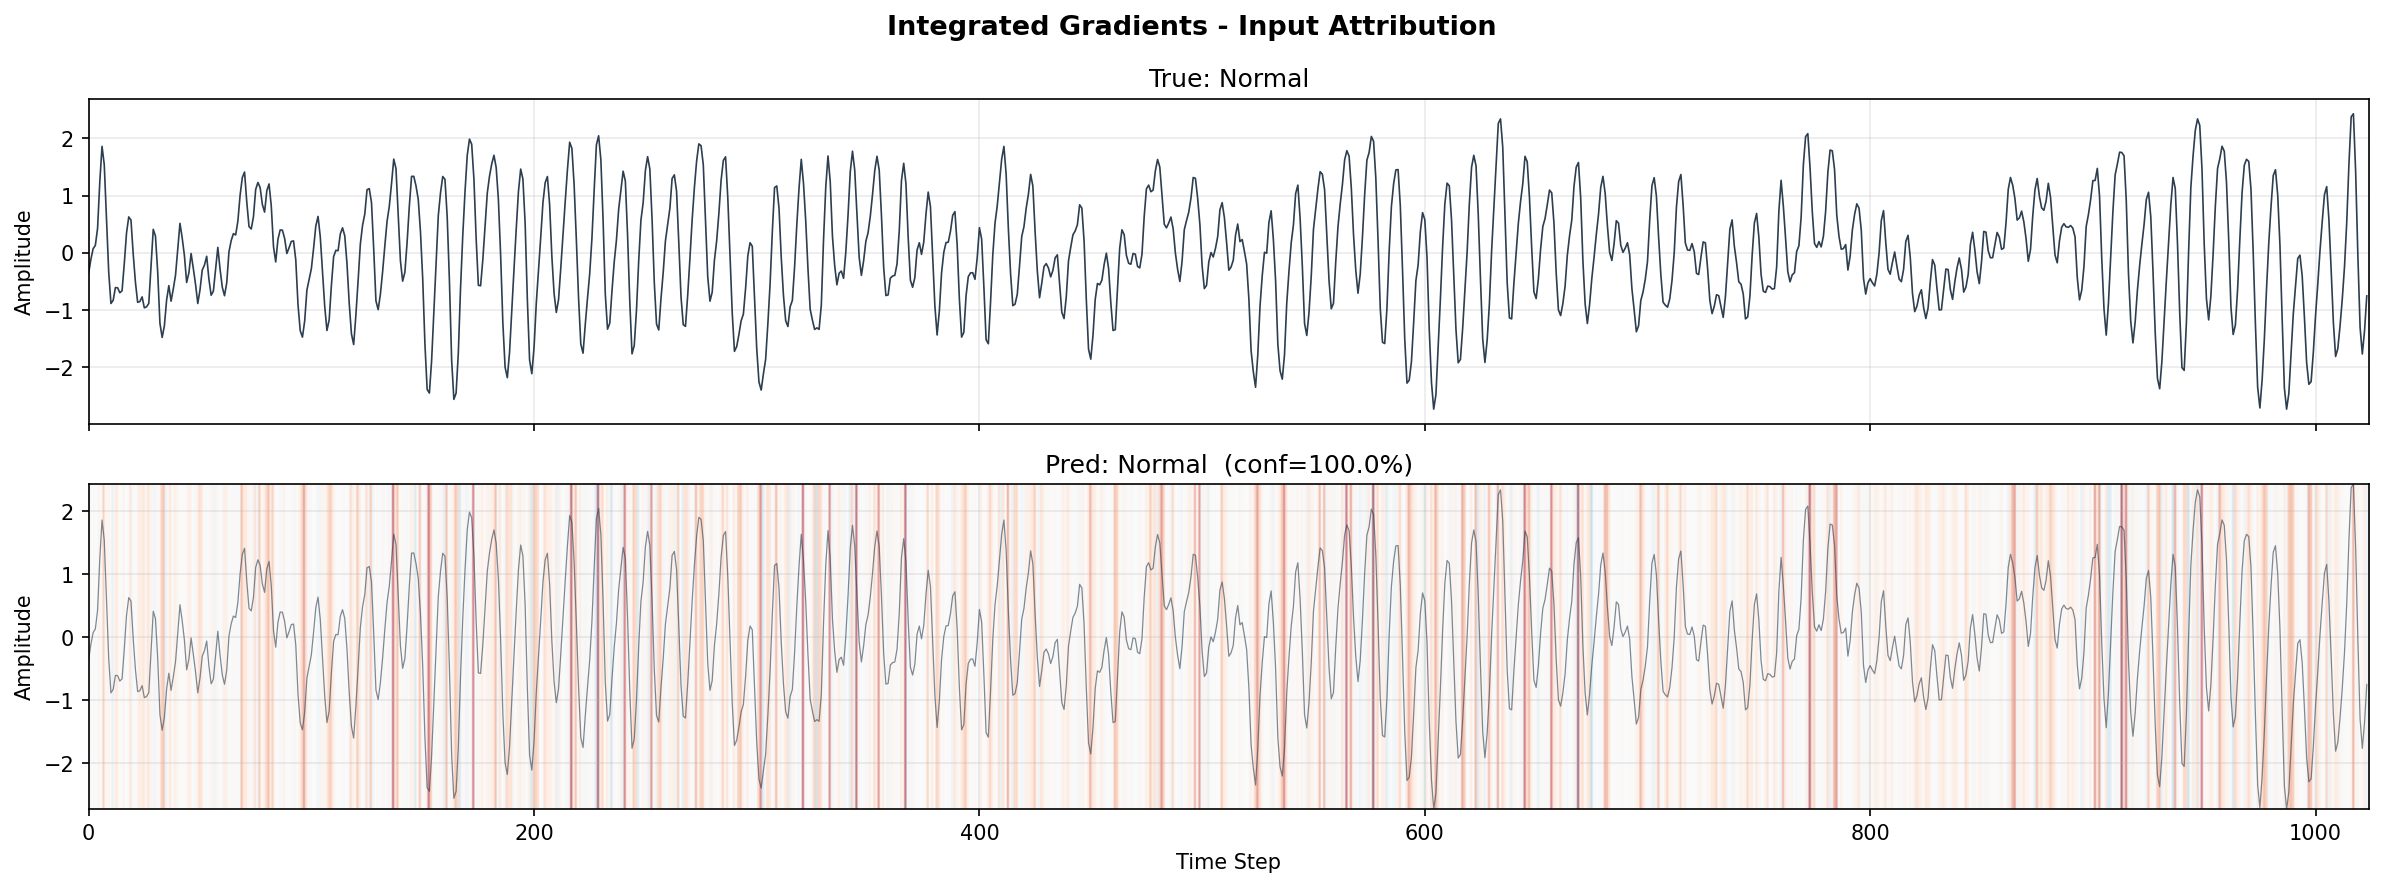
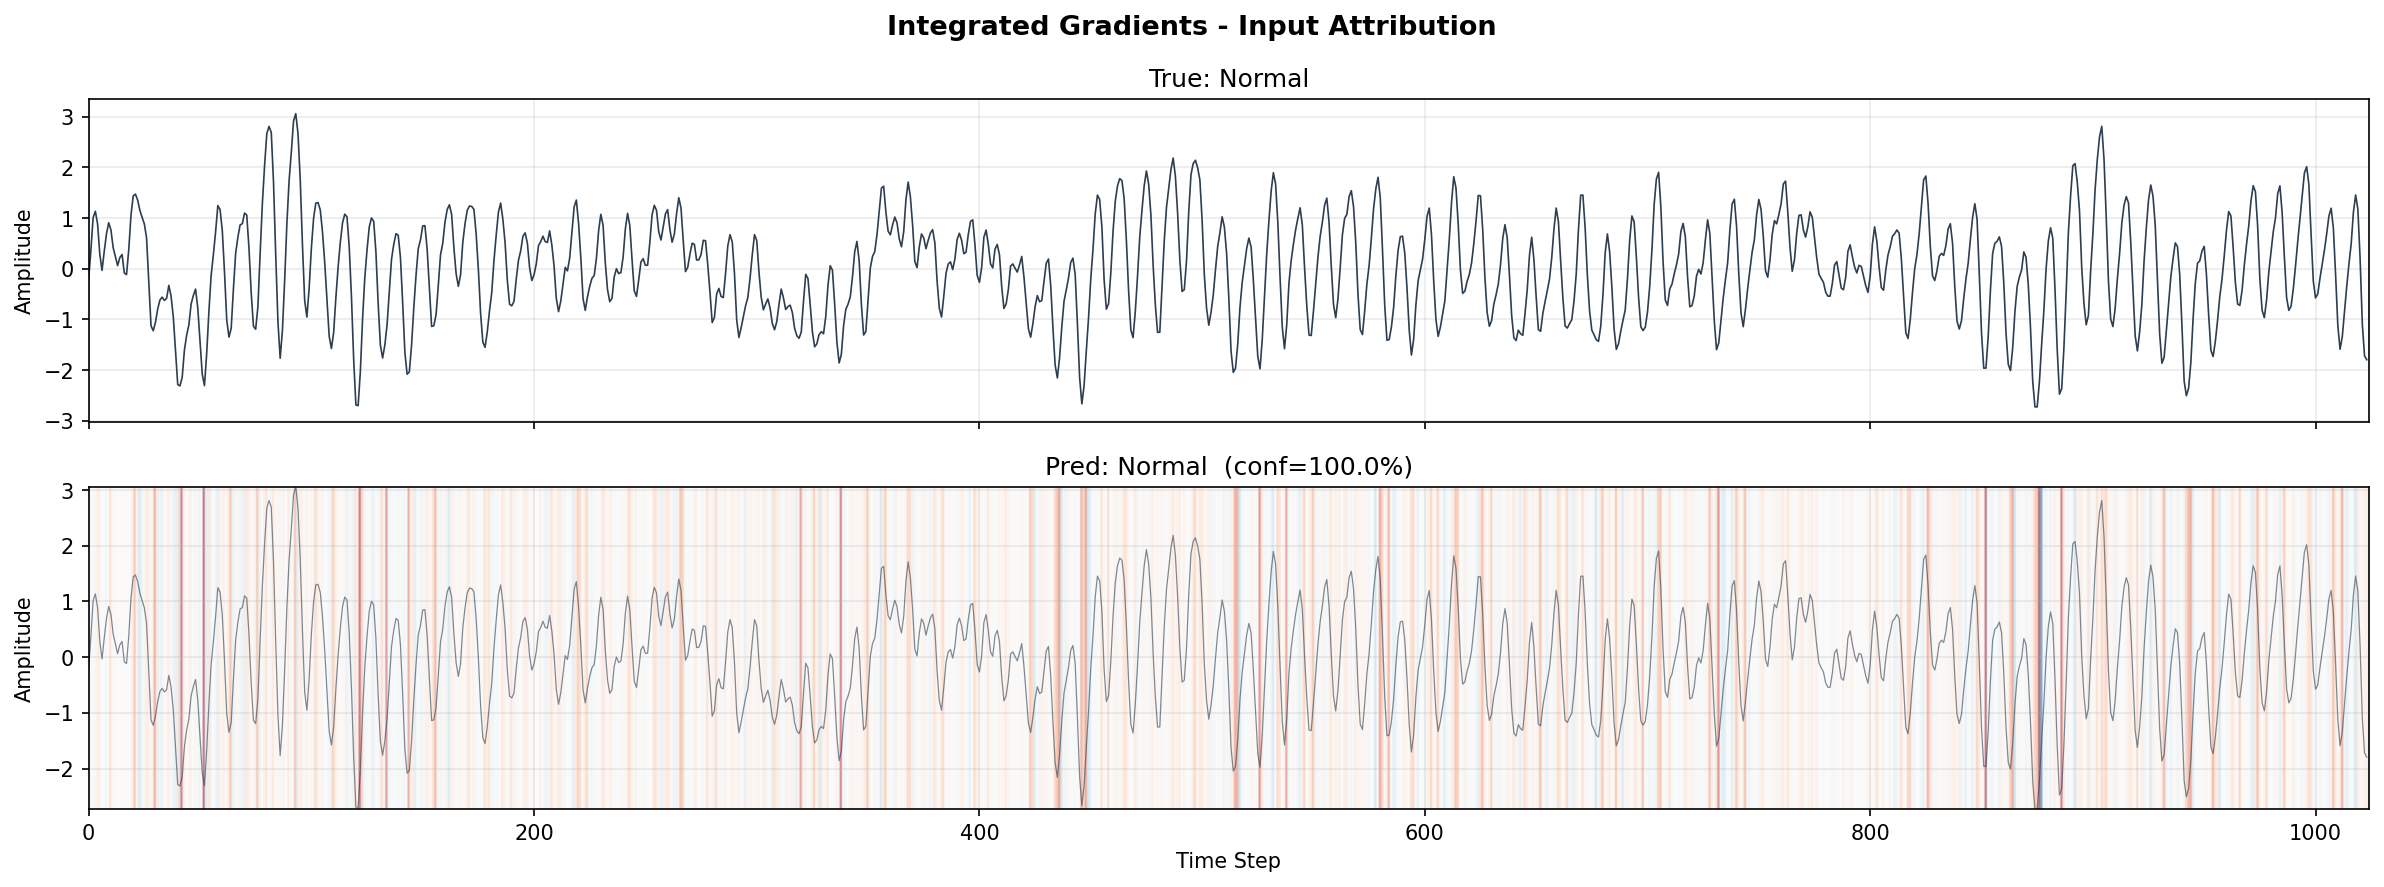
fix: eliminate sliding window data leakage by temporal split in step2

Changed region(s): [[0.0, 0.5175, 0.9933, 0.9132], [0.0, 0.1522, 0.9933, 0.487], [0.4966, 0.9436, 0.5277, 0.9741]]

diff --git a/step4_prototypical.py b/step4_prototypical.py
@@ -32,12 +32,16 @@ CLASS_NAMES = ["Normal", "Inner Race", "Ball", "Outer Race"]
 # ──────── 1. 数据准备 ────────
 
 class CWRUDataset(Dataset):
-    """读取预处理的 .npz 文件"""
-    def __init__(self, npz_path):
+    """读取预处理的 .npz 文件，按分割键加载"""
+    def __init__(self, npz_path, split="train"):
         data = np.load(npz_path)
-        self.X = torch.tensor(data["X"]).unsqueeze(1)  # (N, 1, 1024)
-        self.y = torch.tensor(data["y"])
-        print(f"加载数据: {len(self.y)} 个样本, 形状 {self.X.shape}")
+        if split == "train":
+            self.X = torch.tensor(data["X_train"]).unsqueeze(1)
+            self.y = torch.tensor(data["y_train"])
+        else:
+            self.X = torch.tensor(data["X_test"]).unsqueeze(1)
+            self.y = torch.tensor(data["y_test"])
+        print(f"加载数据 [{split}]: {len(self.y)} 个样本, 形状 {self.X.shape}")
 
     def __len__(self):
         return len(self.y)
@@ -46,25 +50,14 @@ class CWRUDataset(Dataset):
         return self.X[idx], self.y[idx]
 
 
-def create_fewshot_splits(dataset, val_ratio=0.2):
-    """
-    按类别分层切割：每类保留 val_ratio 的样本做验证。
-    小样本场景下，验证集的类别也必须出现在训练集中（闭集设定）。
-    """
+def get_all_indices(dataset):
+    """返回数据集所有索引（数据已在 step2 中按时间顺序预分割，无需再 split）"""
+    indices = list(range(len(dataset.y)))
     indices_by_class = {}
     for i, label in enumerate(dataset.y):
         label = label.item()
         indices_by_class.setdefault(label, []).append(i)
-
-    train_idx, val_idx = [], []
-    for label, idxs in indices_by_class.items():
-        random.shuffle(idxs)
-        split = int(len(idxs) * (1 - val_ratio))
-        train_idx.extend(idxs[:split])
-        val_idx.extend(idxs[split:])
-
-    print(f"训练样本: {len(train_idx)} | 验证样本: {len(val_idx)}")
-    return train_idx, val_idx
+    return indices, indices_by_class
 
 
 # ──────── 2. 特征提取器（复用 W2 的 CNN1D.features） ────────
@@ -225,9 +218,15 @@ def train():
     print(f"配置: {WAYS}-way {SHOT}-shot, {EPISODES} episodes")
     print("=" * 50)
 
-    # 数据
-    dataset = CWRUDataset(INPUT_FILE)
-    train_idx, val_idx = create_fewshot_splits(dataset, val_ratio=0.2)
+    # 数据（step2 已按时间顺序预分割，无泄漏）
+    train_dataset = CWRUDataset(INPUT_FILE, split="train")
+    val_dataset = CWRUDataset(INPUT_FILE, split="test")
+    _, train_class_map = get_all_indices(train_dataset)
+    _, val_class_map = get_all_indices(val_dataset)
+
+    train_idx = sum(train_class_map.values(), [])
+    val_idx = sum(val_class_map.values(), [])
+    print(f"训练样本: {len(train_idx)} | 验证样本: {len(val_idx)}")
 
     # 模型
     encoder = Encoder().to(DEVICE)
@@ -235,8 +234,8 @@ def train():
     optimizer = optim.Adam(encoder.parameters(), lr=LR)
 
     # 采样器
-    train_sampler = EpisodicSampler(dataset, train_idx, WAYS, SHOT, QUERY)
-    val_sampler = EpisodicSampler(dataset, val_idx, WAYS, SHOT, QUERY)
+    train_sampler = EpisodicSampler(train_dataset, train_idx, WAYS, SHOT, QUERY)
+    val_sampler = EpisodicSampler(val_dataset, val_idx, WAYS, SHOT, QUERY)
 
     # ──── 训练循环 ────
     print("\n开始训练...")

diff --git a/step2_preprocess.py b/step2_preprocess.py
@@ -31,6 +31,7 @@ def run():
             sys.exit(1)
 
     all_signals, all_labels = [], []
+    test_signals, test_labels = [], []
 
     for path, label in FILES.items():
         mat = loadmat(path)
@@ -41,22 +42,38 @@ def run():
         print(f"  {os.path.basename(path)}: var={de_key}, 信号长度={len(signal)}")
 
         step = WINDOW_SIZE // 2
+        windows = []
         for i in range(0, len(signal) - WINDOW_SIZE + 1, step):
-            all_signals.append(signal[i : i + WINDOW_SIZE])
+            windows.append(signal[i : i + WINDOW_SIZE])
+
+        # 按时间顺序分割：前 80% 训练，后 20% 测试
+        # 防止相邻（重叠）窗口同时出现在训练和测试中
+        split = int(len(windows) * 0.8)
+        for w in windows[:split]:
+            all_signals.append(w)
             all_labels.append(label)
+        for w in windows[split:]:
+            test_signals.append(w)
+            test_labels.append(label)
 
-    X = np.array(all_signals)
-    y = np.array(all_labels, dtype=np.int64)
+    X_train = np.array(all_signals)
+    y_train = np.array(all_labels, dtype=np.int64)
+    X_test = np.array(test_signals)
+    y_test = np.array(test_labels, dtype=np.int64)
 
-    # 归一化
-    mean = X.mean(axis=1, keepdims=True)
-    std = X.std(axis=1, keepdims=True) + 1e-8
-    X = (X - mean) / std
+    # 归一化（每段独立归一化）
+    def normalize(X):
+        mean = X.mean(axis=1, keepdims=True)
+        std = X.std(axis=1, keepdims=True) + 1e-8
+        return (X - mean) / std
 
-    np.savez(OUTPUT, X=X, y=y)
-    print(f"\n✅ 预处理完成！共 {len(X)} 个样本")
+    X_train = normalize(X_train)
+    X_test = normalize(X_test)
+
+    np.savez(OUTPUT, X_train=X_train, y_train=y_train, X_test=X_test, y_test=y_test)
+    print(f"\n✅ 预处理完成！")
+    print(f"   训练: {len(X_train)} 样本 | 测试: {len(X_test)} 样本")
     print(f"   已保存到 {OUTPUT}")
-    print(f"   下次直接运行 step3_train.py 即可（跳过此步）")
 
 if __name__ == "__main__":
     run()

diff --git a/step3_train.py b/step3_train.py
@@ -22,12 +22,11 @@ if not os.path.exists(INPUT_FILE):
     sys.exit(1)
 
 data = np.load(INPUT_FILE)
-X, y = data["X"], data["y"]
+X_train, y_train = data["X_train"], data["y_train"]
+X_test, y_test = data["X_test"], data["y_test"]
 
-# 打乱 + 8:2 分割
-idx = np.random.permutation(len(X))
-X, y = X[idx], y[idx]
-split = int(len(X) * 0.8)
+# 注意：数据已在 step2 中按时间顺序前 80%/后 20% 分割
+# 不再随机 shuffle，确保无相邻窗口泄漏
 
 class FaultDataset(Dataset):
     def __init__(self, X, y):
@@ -38,13 +37,14 @@ class FaultDataset(Dataset):
     def __getitem__(self, idx):
         return self.X[idx], self.y[idx]
 
-train_loader = DataLoader(FaultDataset(X[:split], y[:split]),
+train_loader = DataLoader(FaultDataset(X_train, y_train),
                           batch_size=BATCH_SIZE, shuffle=True)
-val_loader = DataLoader(FaultDataset(X[split:], y[split:]),
+val_loader = DataLoader(FaultDataset(X_test, y_test),
                         batch_size=BATCH_SIZE)
 
+print(f"训练: {len(X_train)} 样本 | 验证(无泄漏): {len(X_test)} 样本")
+
 print(f"设备: {DEVICE}")
-print(f"训练: {split} 样本 | 验证: {len(X)-split} 样本")
 
 # ──────── 模型 ────────
 class CNN1D(nn.Module):

diff --git a/step5_integrated_gradients.py b/step5_integrated_gradients.py
@@ -217,7 +217,8 @@ def run():
     model.eval()
 
     data = np.load(INPUT_FILE)
-    X, y = data["X"], data["y"]
+    # 使用测试集（模型未见过的窗口）做 IG 归因
+    X, y = data["X_test"], data["y_test"]
     print(f"Data: {len(X)} samples")
 
     signals, attrs, preds, confs, trues = [], [], [], [], []

diff --git a/step5b_analyze_ig.py b/step5b_analyze_ig.py
@@ -263,7 +263,8 @@ def run():
     model.eval()
 
     data = np.load(INPUT_FILE)
-    X, y = data["X"], data["y"]
+    # 使用测试集（模型未见过的窗口）做 IG 归因分析
+    X, y = data["X_test"], data["y_test"]
 
     print(f"\n数据: {len(X)} 样本 | 设备: {DEVICE}\n")
 